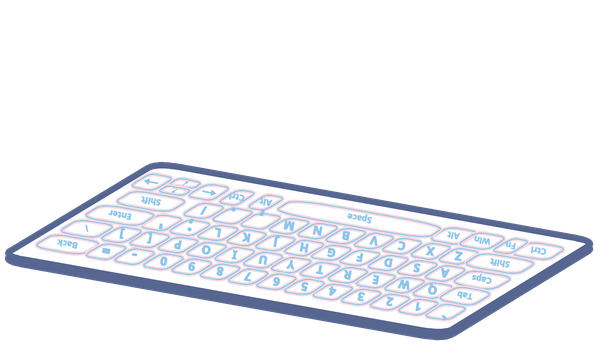
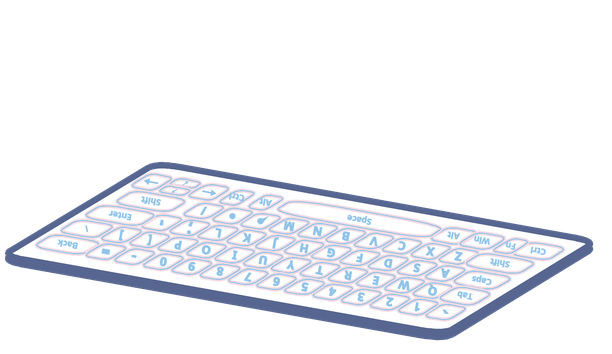
修键帽上的逗号和句点：顶出格子 + 分不清
两个毛病，根因不同。

一、顶出键帽外面

字是用 anchor='mm' 画的，而 PIL 的 'mm' 是拿字体的行高（ascender/descender）
算中点，跟这个字形实际占哪一块无关。字母的墨迹大致填满行高，看不出问题；可句点
逗号的墨迹只贴在基线上那一小块，离行高中点很远。上一版给标点加了放大系数，偏移
跟着一起放大，就把它们顶到键帽边线上去了。

改成按**墨迹**居中：先照常画一遍，量出实际墨迹的包围盒，再按那个中心重画。
这对所有字形都对，不只是标点。

二、还是分不清哪个是逗号哪个是句点

字体里这两个字形本来就只有两三个像素，贴图还要再缩到约 0.49 才显示，渲染出来
就是两个几乎一样的小点。放大字号解决不了 —— 那只会得到一个巨大的点，形状仍然
分不清。

改成矢量画，跟方向键一样自己控制形状：句点是正圆，逗号是圆加一条收尖的尾巴。
尾巴方向沿键盘的 row 轴 —— 跟修方向键时同一个道理，投影带切变，不能拿屏幕上的
「垂直」当键盘的「下」。

按实际显示尺寸（0.49）核对过，两者能分辨；实机跑过，零错误。

键的几何没动，KEY_SHAPES 无变化，按下时的高光不受影响。

diff --git a/tools/gen_keyboard.py b/tools/gen_keyboard.py
@@ -114,6 +114,18 @@ WIDE = {
 HALF_KEYS = {'\u2191', '\u2193'}
 ARROW_DIR = {'\u2190': 180.0, '\u2192': 0.0, '\u2191': -90.0, '\u2193': 90.0}
 
+# \u9017\u53f7\u548c\u53e5\u70b9\u6539\u6210\u77e2\u91cf\u753b\uff0c\u4e0d\u8d70\u5b57\u4f53\u3002
+#
+# \u5b57\u4f53\u91cc\u8fd9\u4e24\u4e2a\u5b57\u5f62\u672c\u6765\u5c31\u53ea\u6709\u4e24\u4e09\u4e2a\u50cf\u7d20\uff0c\u8d34\u56fe\u8fd8\u8981\u518d\u7f29\u5230\u7ea6 0.49 \u624d\u663e\u793a \u2014\u2014 \u6e32\u67d3\u51fa\u6765
+# \u662f\u4e24\u4e2a\u51e0\u4e4e\u4e00\u6837\u7684\u5c0f\u70b9\uff0c\u770b\u4e0d\u51fa\u8c01\u662f\u9017\u53f7\u8c01\u662f\u53e5\u70b9\u3002\u653e\u5927\u5b57\u53f7\u4e5f\u4e0d\u89e3\u51b3\uff1a\u90a3\u53ea\u4f1a\u5f97\u5230\u4e00\u4e2a
+# \u5de8\u5927\u7684\u70b9\uff0c\u800c\u4e14\u5f62\u72b6\u4ecd\u7136\u5206\u4e0d\u6e05\u3002
+#
+# \u81ea\u5df1\u753b\u5c31\u80fd\u628a\u533a\u522b\u505a\u51fa\u6765\uff1a\u53e5\u70b9\u662f\u4e2a\u6b63\u5706\uff0c\u9017\u53f7\u662f\u5706\u52a0\u4e00\u6761\u671d\u4e0b\u7684\u5c3e\u5df4\u3002\u5c3e\u5df4\u7684\u65b9\u5411\u5f97\u6cbf
+# \u952e\u76d8\u7684 row \u8f74\uff08\u8ddf\u7bad\u5934\u540c\u4e00\u4e2a\u9053\u7406\uff0c\u6295\u5f71\u5e26\u5207\u53d8\uff0c\u4e0d\u80fd\u62ff\u300c\u5782\u76f4\u300d\u5f53\u300c\u4e0b\u300d\uff09\u3002
+VECTOR_PUNCT = {',', '.'}
+PUNCT_R = 0.105                     # \u5706\u70b9\u534a\u5f84\uff0c\u76f8\u5bf9\u4e00\u4e2a\u952e\u5e3d\u5bbd
+PUNCT_TAIL = 3.2                    # \u9017\u53f7\u5c3e\u5df4\u957f\u5ea6\uff0c\u76f8\u5bf9\u5706\u70b9\u534a\u5f84
+
 # 拟合用的布局：只用字母数字四排，列位置是标准 QWERTY
 FIT_ROWS = {
     0: [('`', 0.5), ('1', 1.5), ('2', 2.5), ('3', 3.5), ('4', 4.5), ('5', 5.5),
@@ -354,6 +366,24 @@ def build(keys, proj, unproj):
                        fill=C_TEXT)
             continue
 
+        if lab in VECTOR_PUNCT:
+            # 圆点 +（逗号的）尾巴。尾巴沿 row 轴朝下，跟箭头同一个道理。
+            u_row, per_row = step(proj(col, row - 0.5), proj(col, row + 0.5))
+            _, per_col = step(proj(col - 0.5, row), proj(col + 0.5, row))
+            r = per_col * PUNCT_R * SS
+            ox, oy = cx * SS, cy * SS
+            if lab == ',':
+                # 尾巴画成一个从圆边收窄到一点的三角，比直线更像逗号
+                tx = ox + u_row[0] * r * PUNCT_TAIL
+                ty = oy + u_row[1] * r * PUNCT_TAIL
+                nx, ny = -u_row[1], u_row[0]
+                # 尾根一侧贴着圆、另一侧收窄，末端收成尖 —— 像逗号，不像蝌蚪
+                ld.polygon([(ox + nx * r * 0.95, oy + ny * r * 0.95),
+                            (ox - nx * r * 0.55, oy - ny * r * 0.55),
+                            (tx, ty)], fill=C_TEXT)
+            ld.ellipse([ox - r, oy - r, ox + r, oy + r], fill=C_TEXT)
+            continue
+
         pa, pb = proj(col - 0.5, row), proj(col + 0.5, row)
         ang = math.degrees(math.atan2(pb[1] - pa[1], pb[0] - pa[0]))
         edge = math.hypot(pb[0] - pa[0], pb[1] - pa[1])
@@ -363,11 +393,30 @@ def build(keys, proj, unproj):
         base = edge * (TEXT_1CH if len(lab) == 1 else TEXT_NCH)
         size = base * PUNCT_BOOST.get(lab, 1.0)
         txt = '\\' if lab == '\\\\' else lab
+        fnt = load_font(size * SS)
         # 描边按放大前的字号算。标点要的是「字形大一点」，不是「笔画粗一圈」——
         # 两个一起放大，句点就成了一块方疙瘩。
-        td.text((box / 2, box / 2), txt, font=load_font(size * SS), fill=C_TEXT,
-                anchor='mm', stroke_width=max(1, int(base * SS * 0.055)),
-                stroke_fill=C_TEXT)
+        sw = max(1, int(base * SS * 0.055))
+
+        # 按**墨迹**居中，不是按 anchor='mm'。
+        #
+        # anchor='mm' 是拿字体的行高（ascender/descender）算中点的，跟这个字形
+        # 实际占哪一块无关。字母的墨迹大致填满行高，所以看不出问题；可句点、逗号
+        # 的墨迹只贴在基线上那一小块，离行高中点很远 —— 字号一放大，偏移跟着放大，
+        # 句点就被顶到键帽边线外面去了。
+        #
+        # 所以先照常画一遍，量出墨迹的实际包围盒，再按那个包围盒的中心重画。
+        td.text((box / 2, box / 2), txt, font=fnt, fill=C_TEXT, anchor='mm',
+                stroke_width=sw, stroke_fill=C_TEXT)
+        ink = tmp.getbbox()
+        if ink:
+            dx = box / 2 - (ink[0] + ink[2]) / 2
+            dy = box / 2 - (ink[1] + ink[3]) / 2
+            if abs(dx) > 0.5 or abs(dy) > 0.5:
+                tmp = Image.new('RGBA', (box, box), (0, 0, 0, 0))
+                td = ImageDraw.Draw(tmp)
+                td.text((box / 2 + dx, box / 2 + dy), txt, font=fnt, fill=C_TEXT,
+                        anchor='mm', stroke_width=sw, stroke_fill=C_TEXT)
         tmp = tmp.rotate(-ang, resample=Image.BICUBIC, center=(box / 2, box / 2))
         lay.alpha_composite(tmp, (int(cx * SS - box / 2), int(cy * SS - box / 2)))
     img.alpha_composite(lay)
